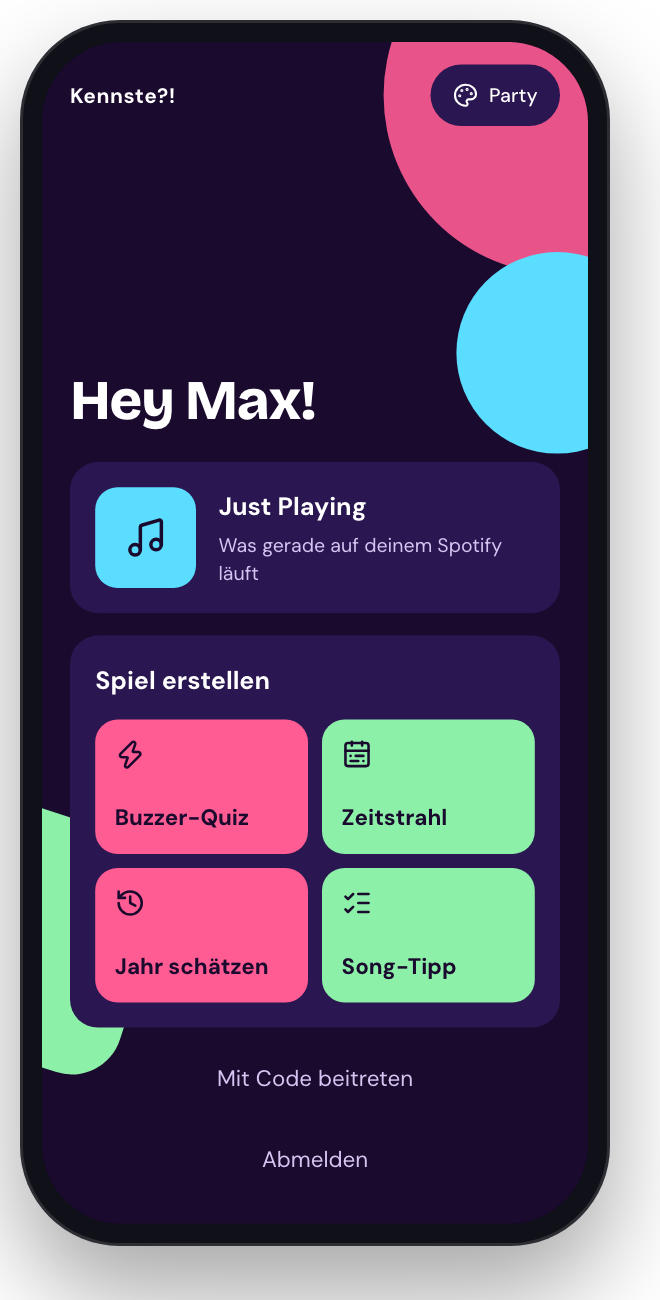
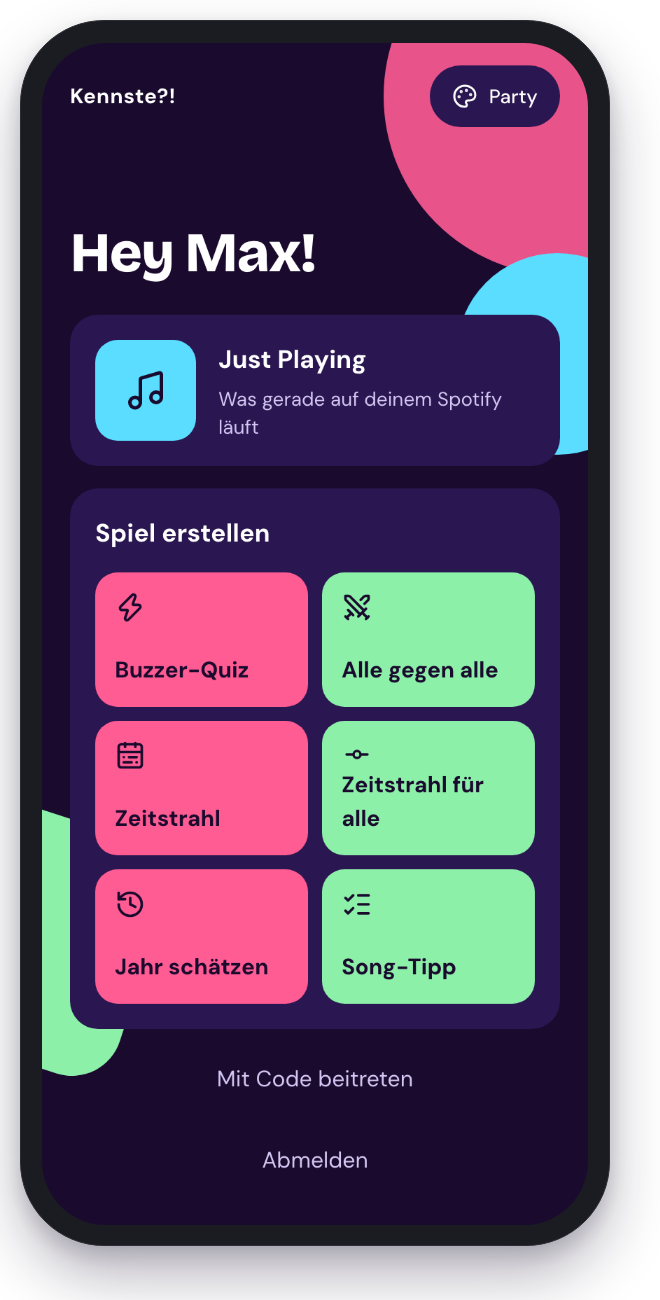
docs: README mit allen sechs Spielen – Alle gegen alle und Zeitstrahl für alle mit eigenen Screenshots

diff --git a/README.md b/README.md
@@ -6,7 +6,7 @@
 
 Das Musikquiz für gesellige Runden. Hört gemeinsam Musik, ratet mit und nutzt eure Handys als Buzzer.
 
-<sub>🇬🇧 <i>A self-hosted music quiz for game nights: one Spotify account plays the music, everyone else joins with their phone as a buzzer – no app, no account. Four game modes, a TV view for the big screen, Next.js, Docker (amd64/arm64), end-to-end tests against a Spotify simulator.</i></sub>
+<sub>🇬🇧 <i>A self-hosted music quiz for game nights: one Spotify account plays the music, everyone else joins with their phone as a buzzer – no app, no account. Six game modes, a TV view for the big screen, Next.js, Docker (amd64/arm64), end-to-end tests against a Spotify simulator.</i></sub>
 
 <img src="docs/images/hero.png" alt="Kennste?! auf dem Fernseher mit QR-Code zum Beitreten, daneben zwei Handys: eins mit großem Buzzer, eins mit „Tom hat gebuzzert! – Richtig oder Falsch“" width="100%">
 
@@ -16,7 +16,7 @@ Das Musikquiz für gesellige Runden. Hört gemeinsam Musik, ratet mit und nutzt 
 
 <table>
   <tr>
-    <td align="center" width="33%"><img src="docs/images/step-1.png" alt="Startseite nach dem Login mit den vier Spielen" width="220"></td>
+    <td align="center" width="33%"><img src="docs/images/step-1.png" alt="Startseite nach dem Login mit den sechs Spielen" width="220"></td>
     <td align="center" width="33%"><img src="docs/images/step-2.png" alt="Lobby mit QR-Code, Spielcode und Spielerliste" width="220"></td>
     <td align="center" width="33%"><img src="docs/images/step-3.png" alt="Runde auf dem Handy mit großem Buzzer" width="220"></td>
   </tr>
@@ -36,12 +36,24 @@ Ihr sitzt zusammen in einem Raum. Wer mag, holt die **TV-Ansicht** auf Fernseher
     <td width="50%" valign="top">
       <img src="docs/images/mode-buzzer.png" alt="Buzzer-Quiz: TV zeigt „Tom hat gebuzzert!“, Handy den Buzzer">
       <h3>Buzzer-Quiz</h3>
-      Reihum legt jemand einen Song auf – per Suche oder aus einer Playlist. Wer ihn zuerst erkennt, buzzert, und wer aufgelegt hat, entscheidet: richtig oder falsch? Für Profis mit kurzen Ausschnitten und zufälliger Startstelle statt Intro. Oder <i>Alle gegen alle</i>: alle hören denselben Song, wer zuerst buzzert, antwortet – die anderen können widersprechen.
+      Reihum legt jemand einen Song auf – per Suche, beim Stöbern nach Jahrzehnt und Genre oder aus einer Playlist. Wer ihn zuerst erkennt, buzzert, und wer aufgelegt hat, entscheidet: richtig oder falsch? Für Profis mit kurzen Ausschnitten und zufälliger Startstelle statt Intro.
     </td>
+    <td width="50%" valign="top">
+      <img src="docs/images/mode-versus.png" alt="Alle gegen alle: TV zeigt „Tom sagt: richtig! Stimmt das?“ mit dem Song, Handy die Abstimmung">
+      <h3>Alle gegen alle</h3>
+      Alle hören denselben Song, jeder kann buzzern. Wer zuerst buzzert, sagt die Antwort laut und sieht erst danach die Lösung. Sagt er „richtig“, läuft die Musik weiter und die anderen stimmen ab – nur wenn die Mehrheit bestätigt, gibt es den Punkt.
+    </td>
+  </tr>
+  <tr>
     <td width="50%" valign="top">
       <img src="docs/images/mode-timeline.png" alt="Zeitstrahl: Karten mit Jahreszahlen, eine Lücke ist markiert">
       <h3>Zeitstrahl</h3>
-      Ein unbekannter Song läuft – aber wann kam er raus? Ordne ihn in deinen Zeitstrahl ein. Liegst du richtig, behältst du die Karte. Oder spielt <i>gemeinsam</i>: ein Zeitstrahl fürs ganze Team, jede falsche Karte kostet ein Leben. Oder als <i>Zeitstrahl für alle</i>: ein gemeinsamer Zeitstrahl, alle legen gleichzeitig und verdeckt – wer richtig liegt, punktet.
+      Ein unbekannter Song läuft – aber wann kam er raus? Ordne ihn in deinen Zeitstrahl ein. Liegst du richtig, behältst du die Karte. Oder spielt <i>gemeinsam</i>: ein Zeitstrahl fürs ganze Team, die anderen schlagen Lücken vor, jede falsche Karte kostet ein Leben.
+    </td>
+    <td width="50%" valign="top">
+      <img src="docs/images/mode-together.png" alt="Zeitstrahl für alle: der aufgelöste Song im gemeinsamen Zeitstrahl, in den Lücken die Tipps der Spieler">
+      <h3>Zeitstrahl für alle</h3>
+      Ein gemeinsamer Zeitstrahl, und alle legen gleichzeitig und verdeckt. Wer die richtige Lücke trifft, bekommt einen Punkt, die Karte kommt in den Zeitstrahl – und der wird mit jedem Song kniffliger.
     </td>
   </tr>
   <tr>
@@ -58,7 +70,7 @@ Ihr sitzt zusammen in einem Raum. Wer mag, holt die **TV-Ansicht** auf Fernseher
   </tr>
 </table>
 
-**Und außerdem:** feste Rundenzahl oder „Wer zuerst N Punkte hat“ · Songs selbst aussuchen oder aus einer Playlist · zuschaltbare Tipps (Cover, Titel, Interpret, Jahr) · Zeitlimits · Zuschauen ohne Mitspielen · Laptop-Ansicht mit Tastaturkürzeln · zwei Stile: bunt („Party“) oder schlicht („Minimal“) · **Just Playing** zeigt nebenbei, was gerade auf deinem Spotify läuft.
+**Und außerdem:** feste Rundenzahl oder „Wer zuerst N Punkte hat“ · Songs selbst aussuchen oder aus einer Playlist · zuschaltbare Tipps (Cover, Titel, Interpret, Jahr) · Zeitlimits · Zuschauen ohne Mitspielen · Laptop-Ansicht mit Tastaturkürzeln · auf den Startbildschirm legen und wie eine App nutzen · zwei Stile: bunt („Party“) oder schlicht („Minimal“) · **Just Playing** zeigt nebenbei, was gerade auf deinem Spotify läuft.
 
 ## Was du brauchst
 
